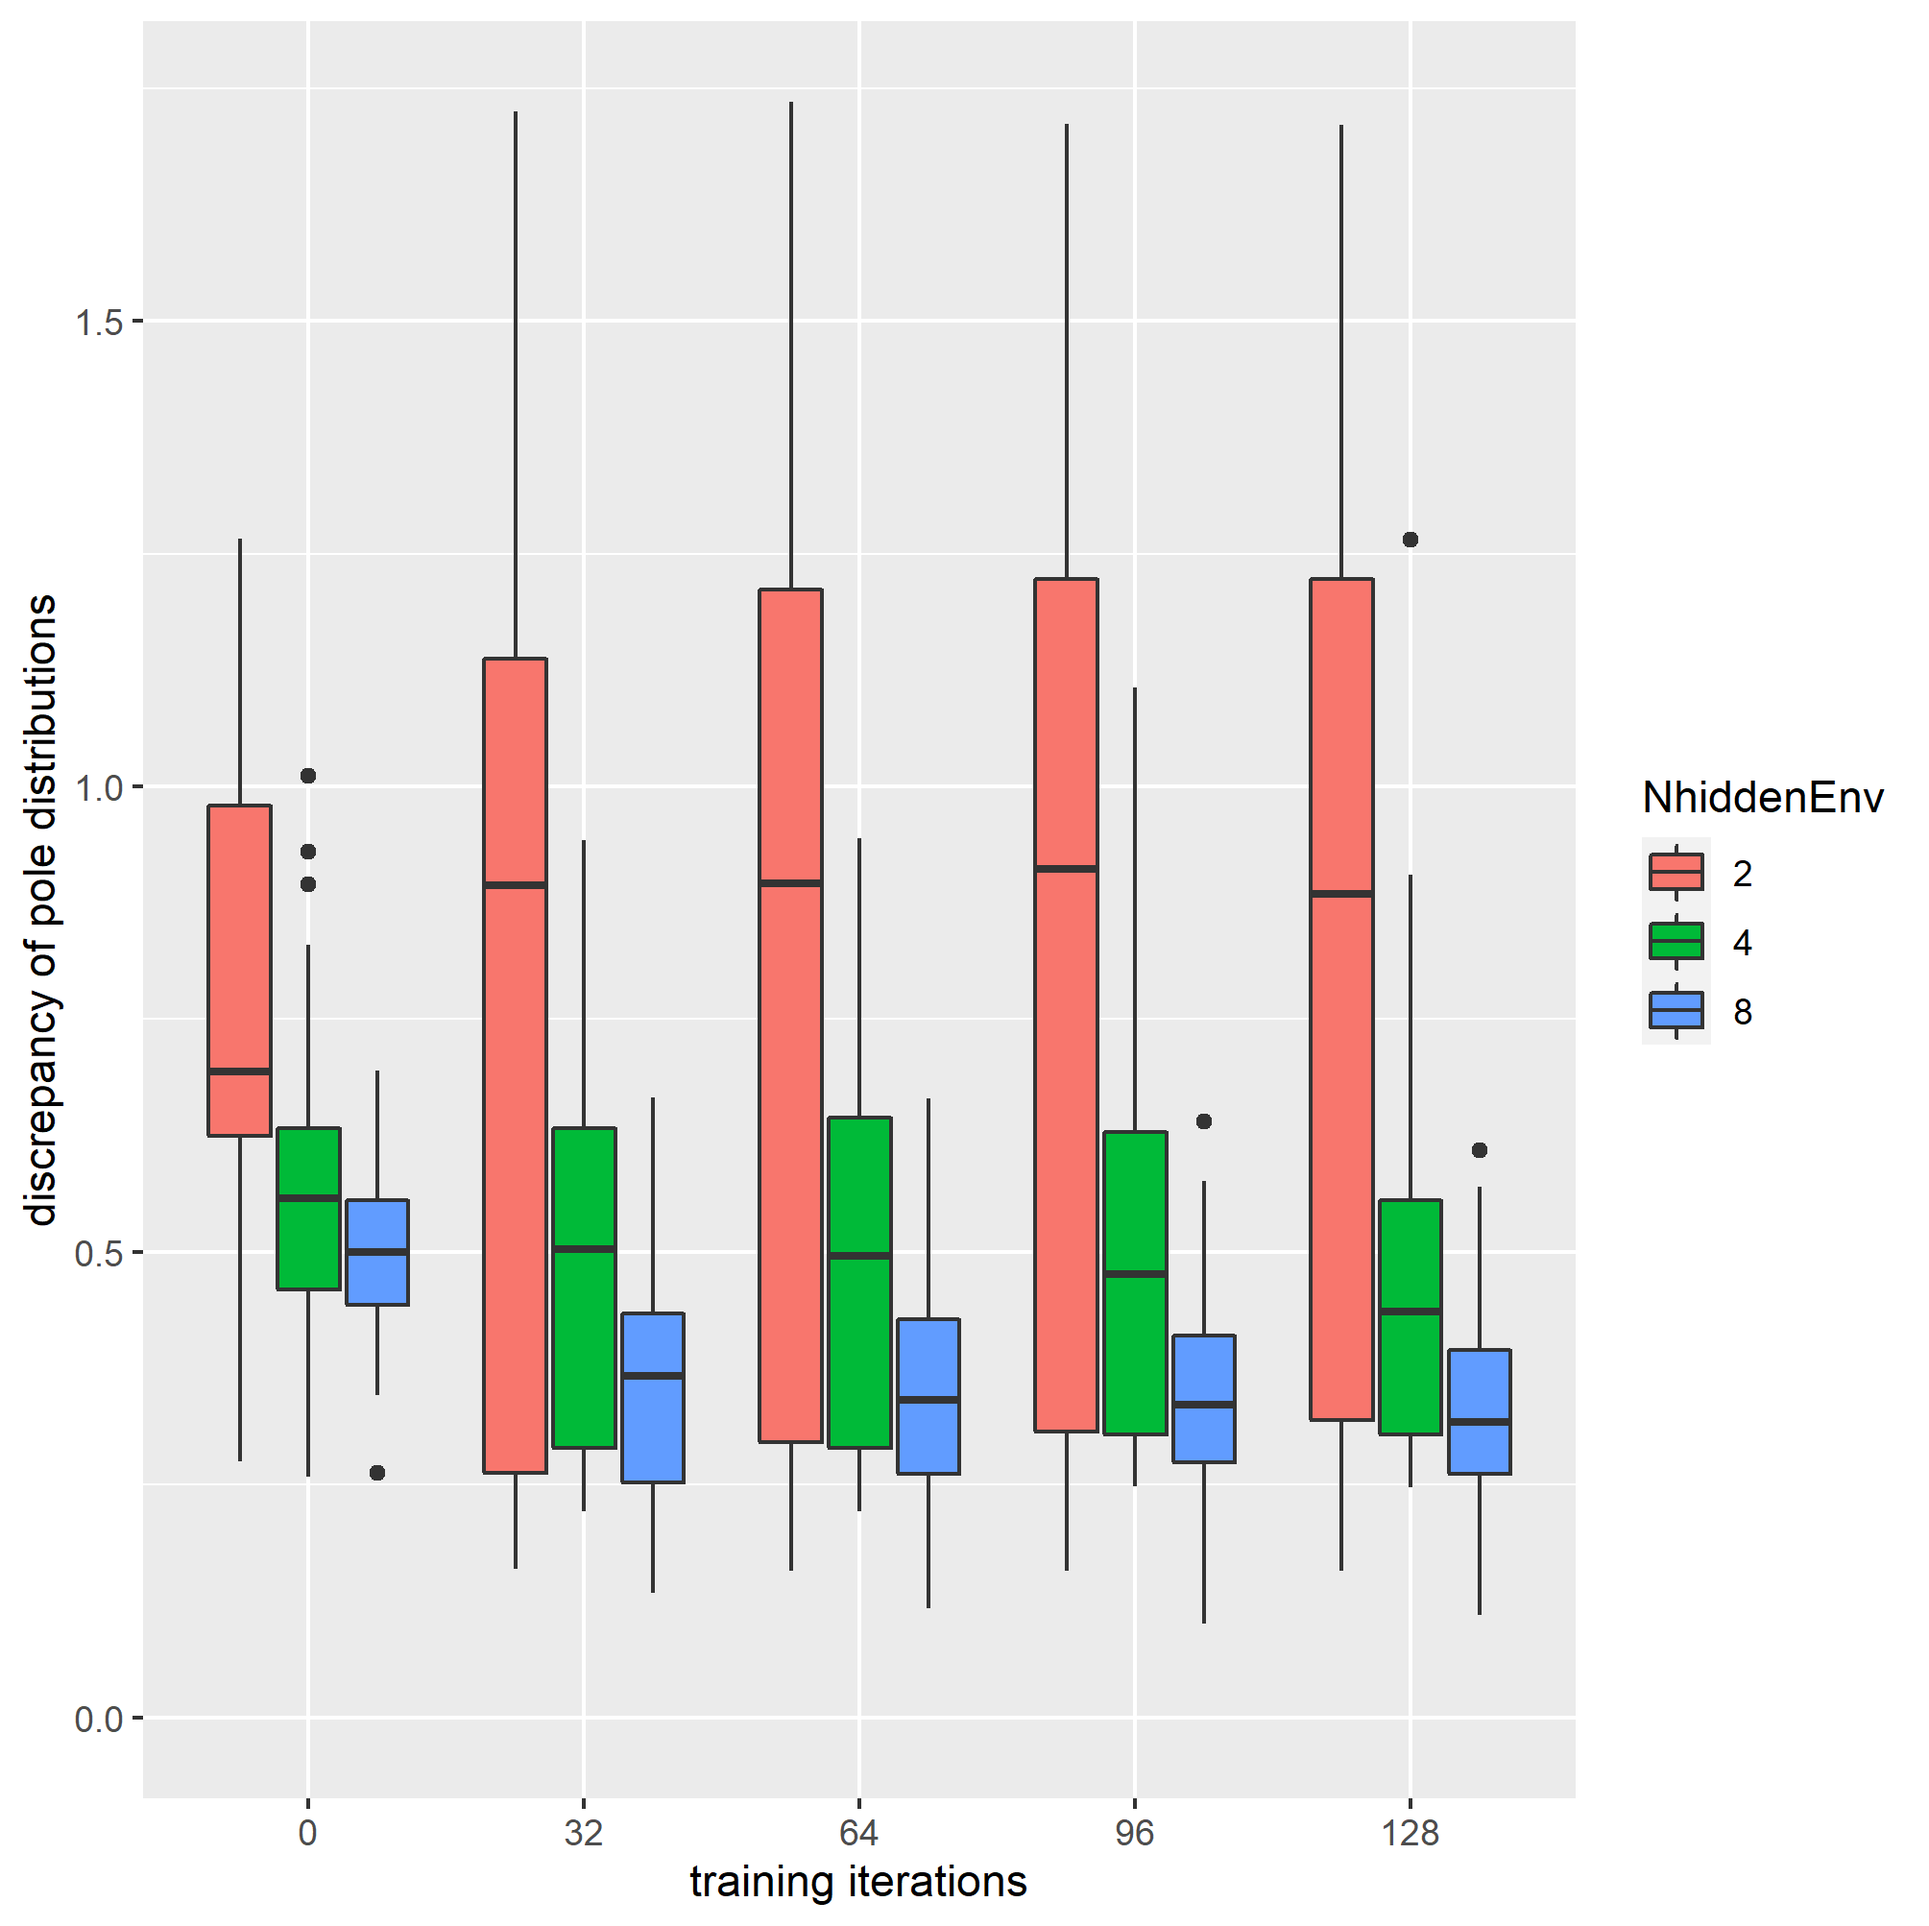
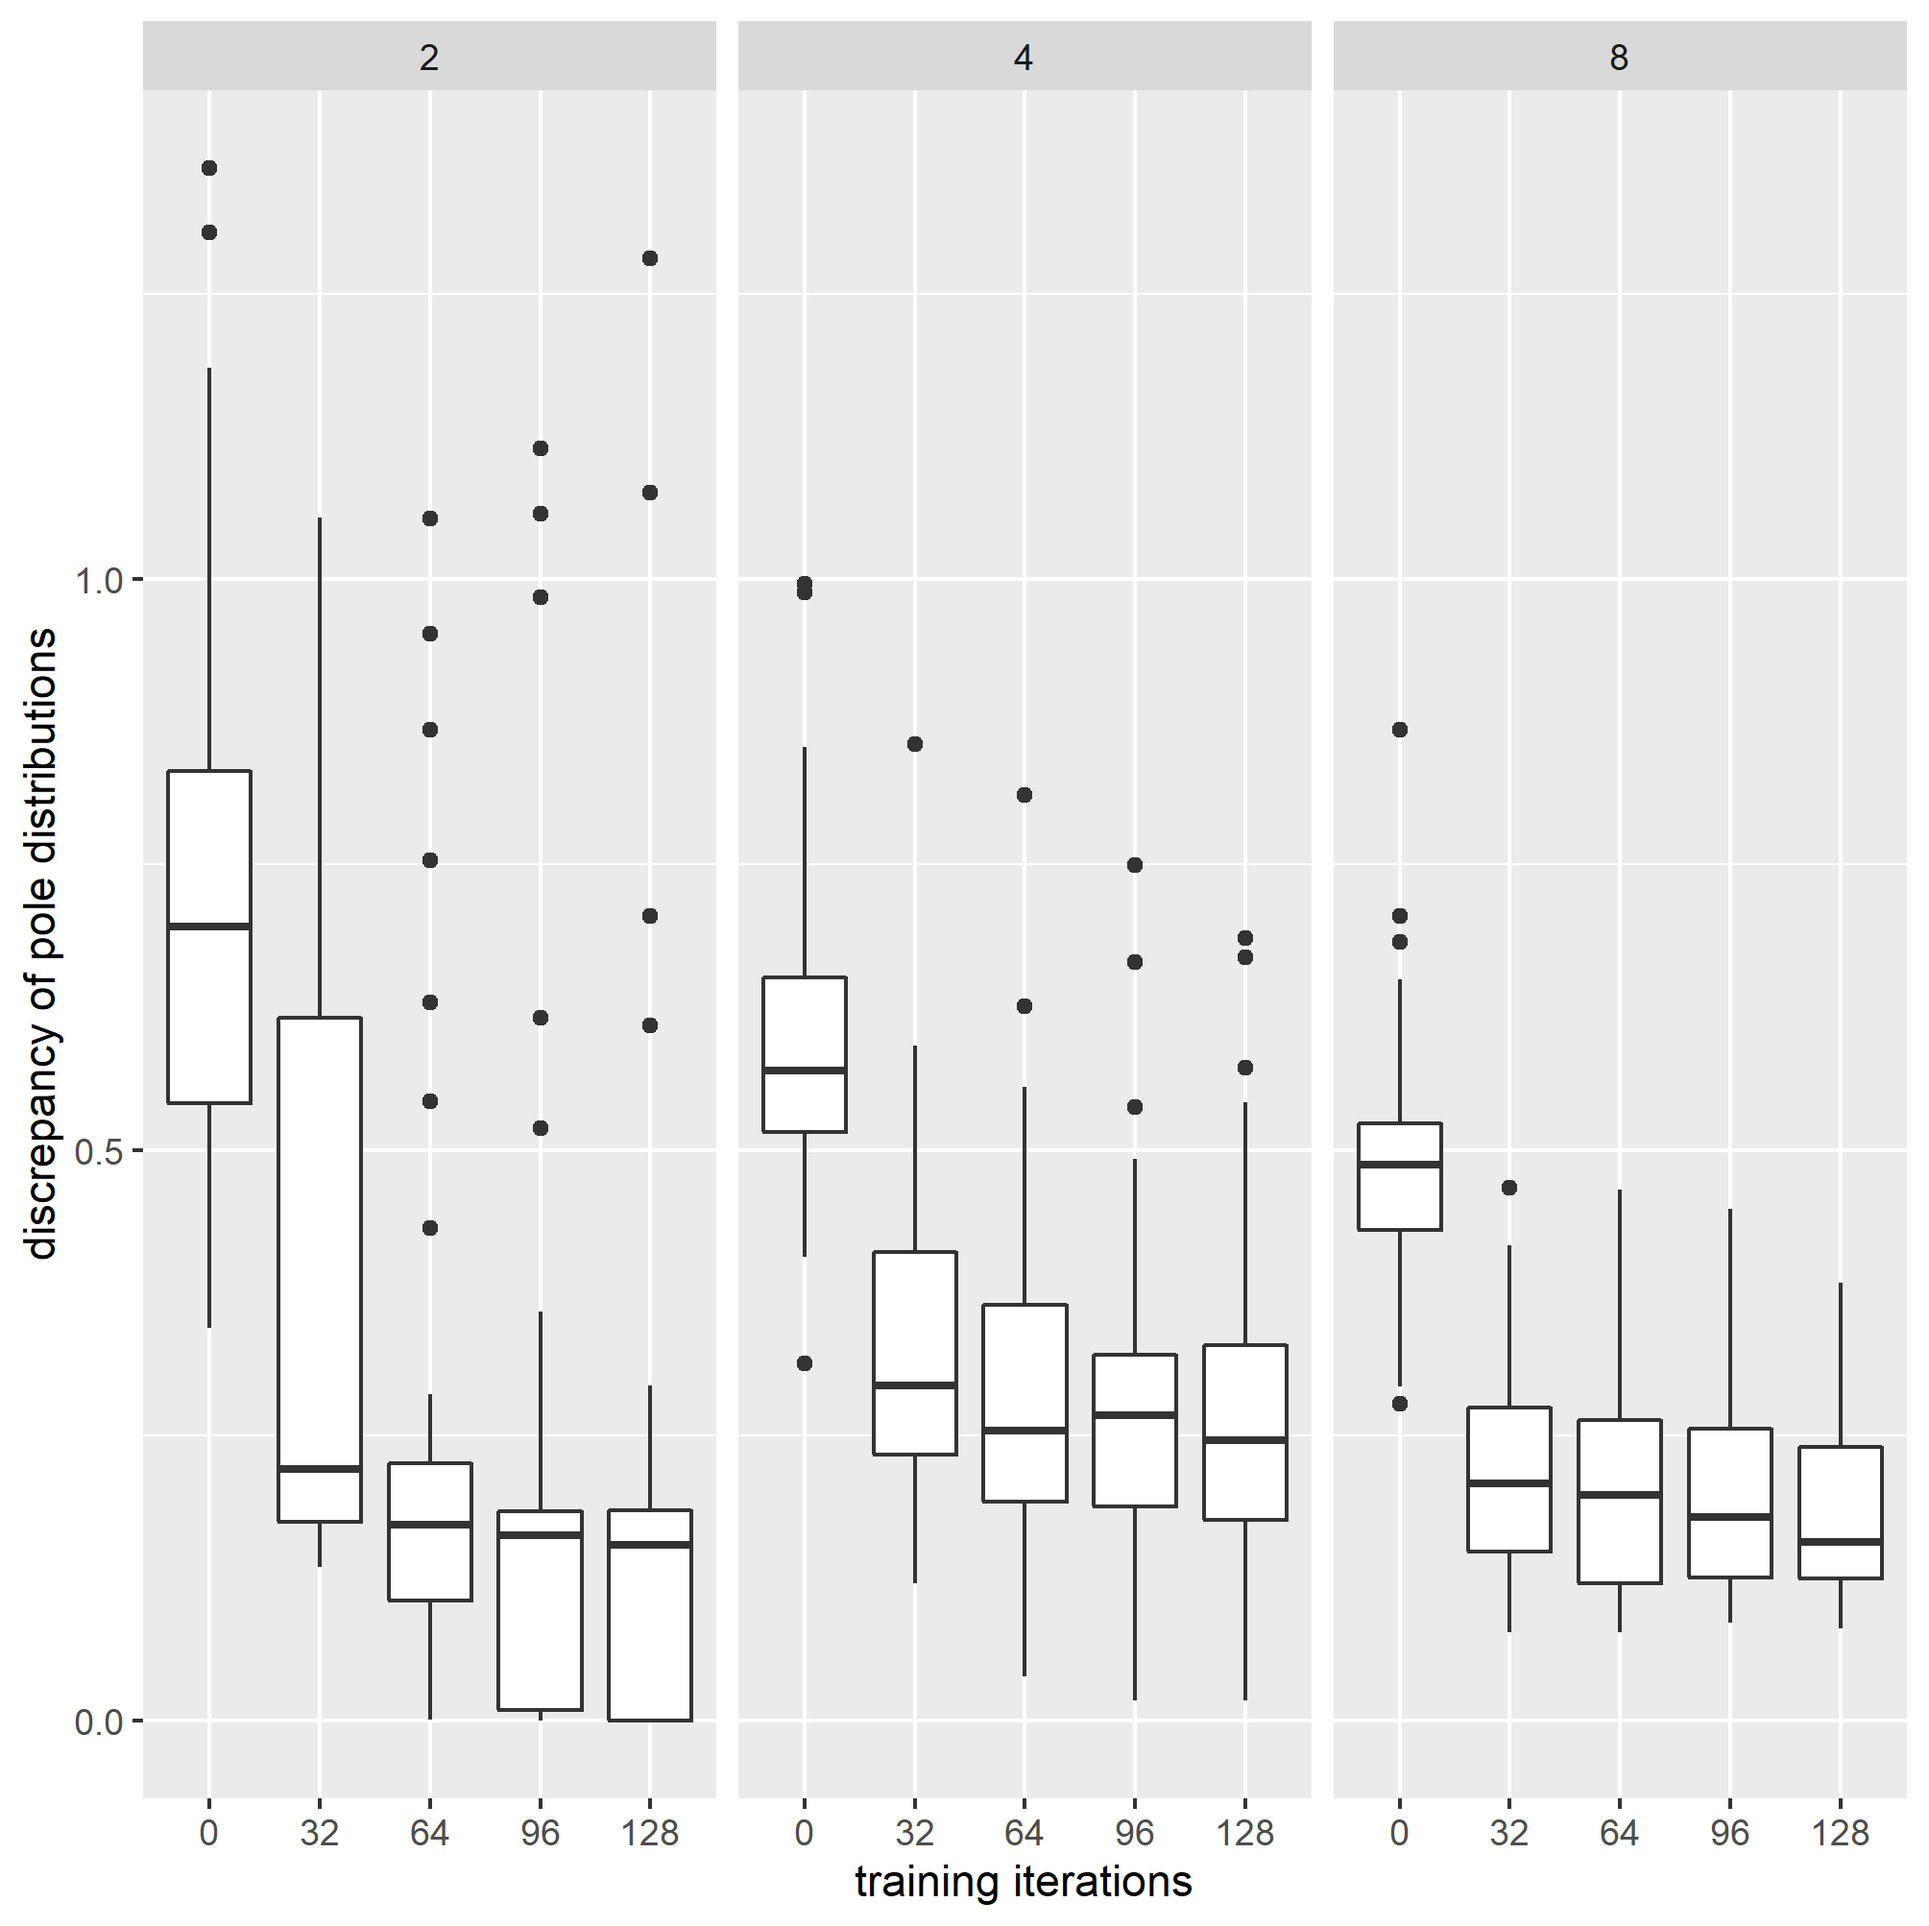
Revised subsection 3.1 and 3.2 and updated attached images

diff --git a/casestudies/doc.md b/casestudies/doc.md
@@ -53,7 +53,9 @@ at the end of training iterations.
 The figure 3.1.2 shows some examples of the pair of
 the targeted pole distribution and the trained one,
 which are selected randomly among the trained networks.
-It can be seen that all the poles are missed.
+It can be seen that all the poles are missed
+and that estimated poles are not always but sometimes located beyond the unit circle,
+which means that the estimated LRN system might be unstable.
 
 <img src = "./img/pole_distribution_discrepancy_case_study_001a.png" width = "50%">
 Figure 3.1.1 Learning curves of the discrepancy between the true pole distribution and the estimated one
@@ -85,3 +87,9 @@ It's confirmed that
 
 Figure 3.2.2 show some examples of pole distributions of randomly selected trained agents.
 Some estimated poles are matched with the true ones, but the other poles failed.
+
+<img src = "./img/pole_distribution_discrepancy_case_study_002a.png" width = "50%">
+Figure 3.2.1 Learning curves of the discrepancy between the true pole distribution and the estimated one
+
+<img src = "./img/pole_distribution_examples_case_study_002a.png" width = "50%">
+Figure 3.2.2 Targeted pole distributions and trained ones
